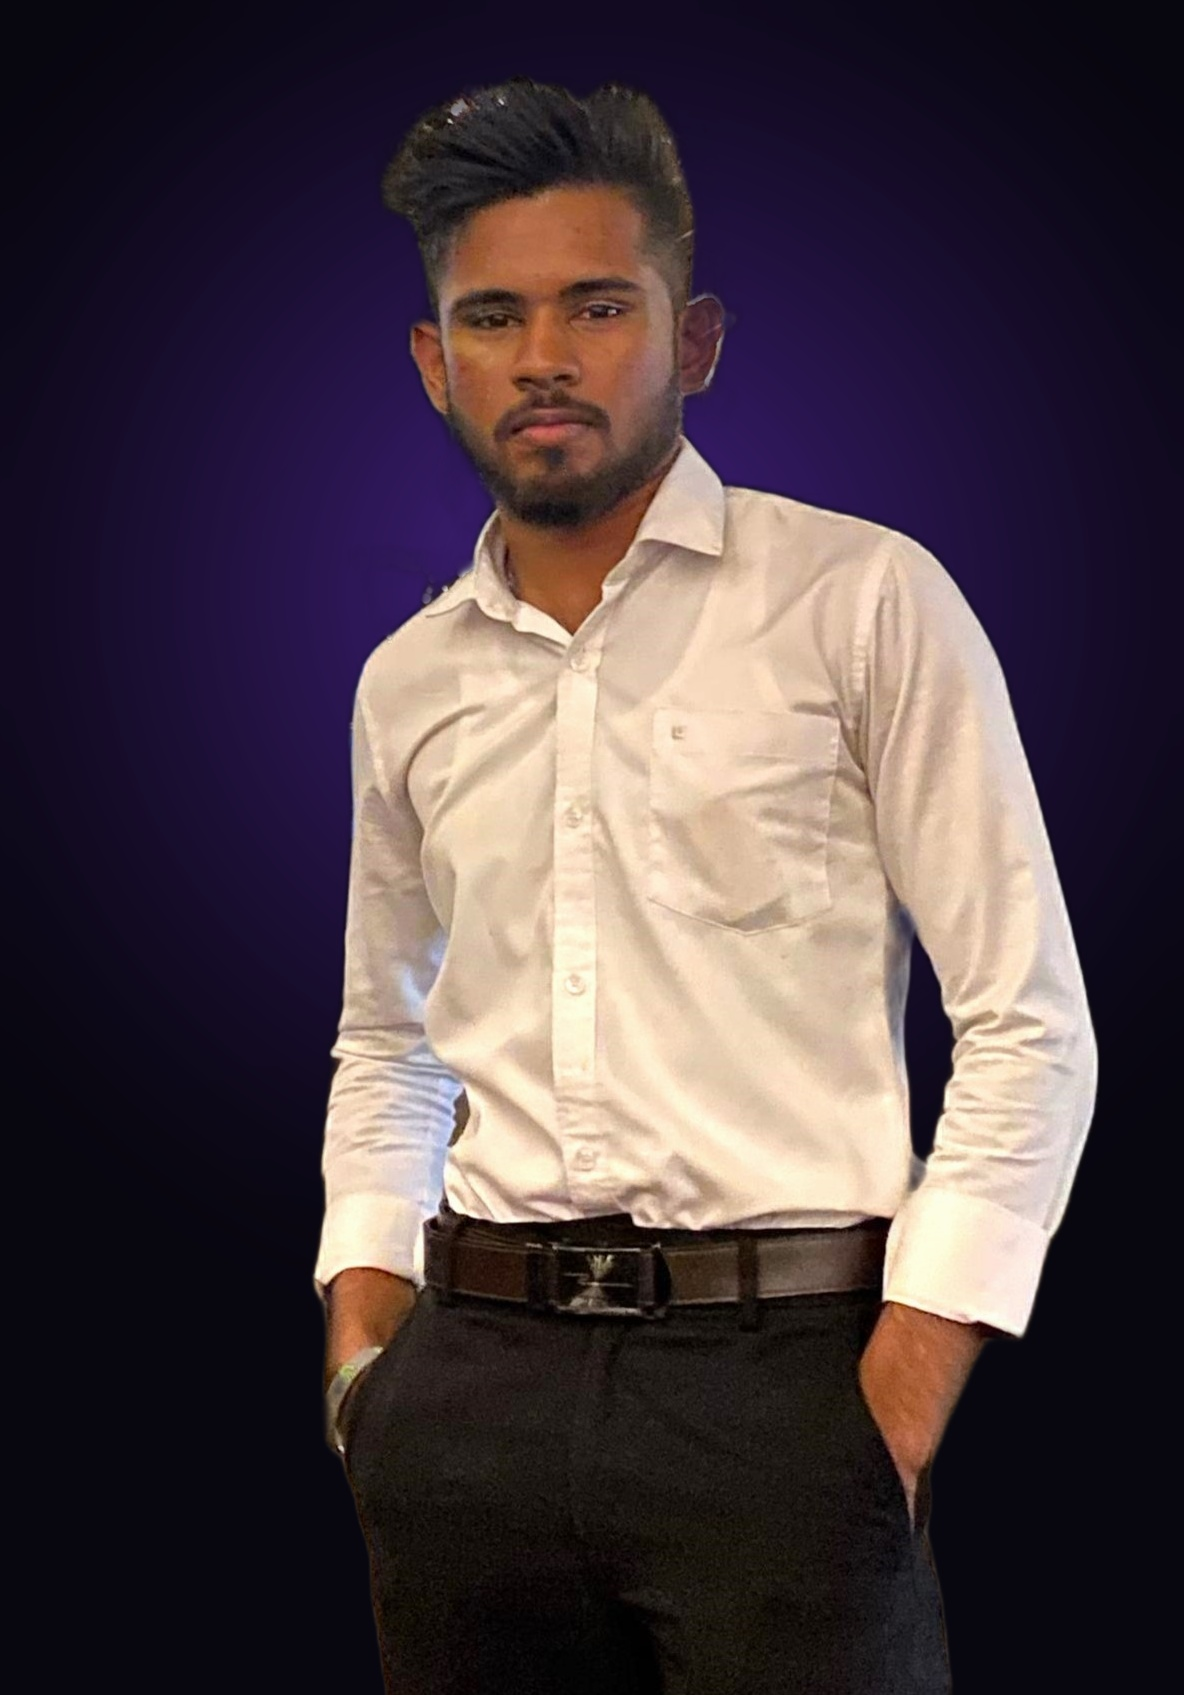
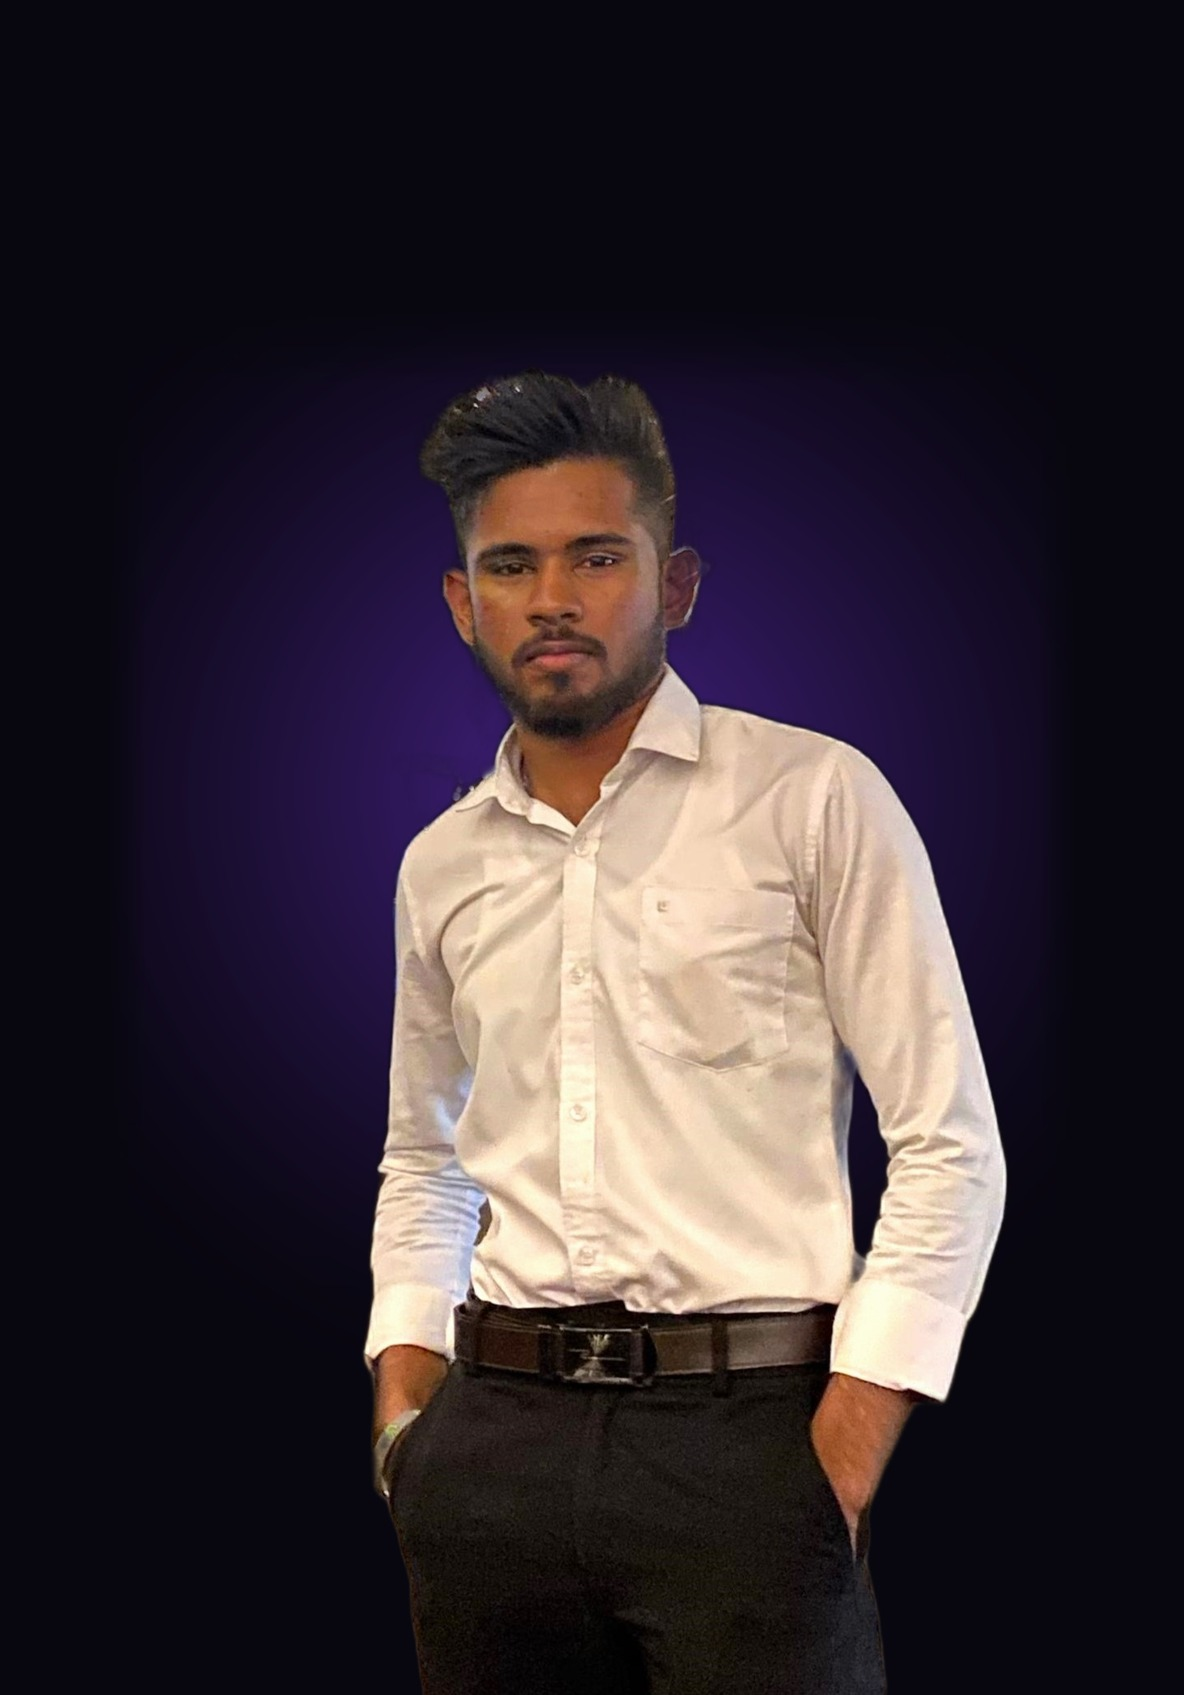
Refine portraits: remove lamp from about photo and zoom out leadership photo framing

diff --git a/css/main.css b/css/main.css
@@ -705,7 +705,7 @@ img {
   width: 100%;
   height: 480px;
   object-fit: cover;
-  object-position: center;
+  object-position: top center;
   transition: transform 0.5s ease;
 }
 
@@ -1543,7 +1543,7 @@ img {
   width: 100%;
   height: 480px;
   object-fit: cover;
-  object-position: center 15%;
+  object-position: top center;
   transition: transform 0.5s ease;
   display: block;
 }
